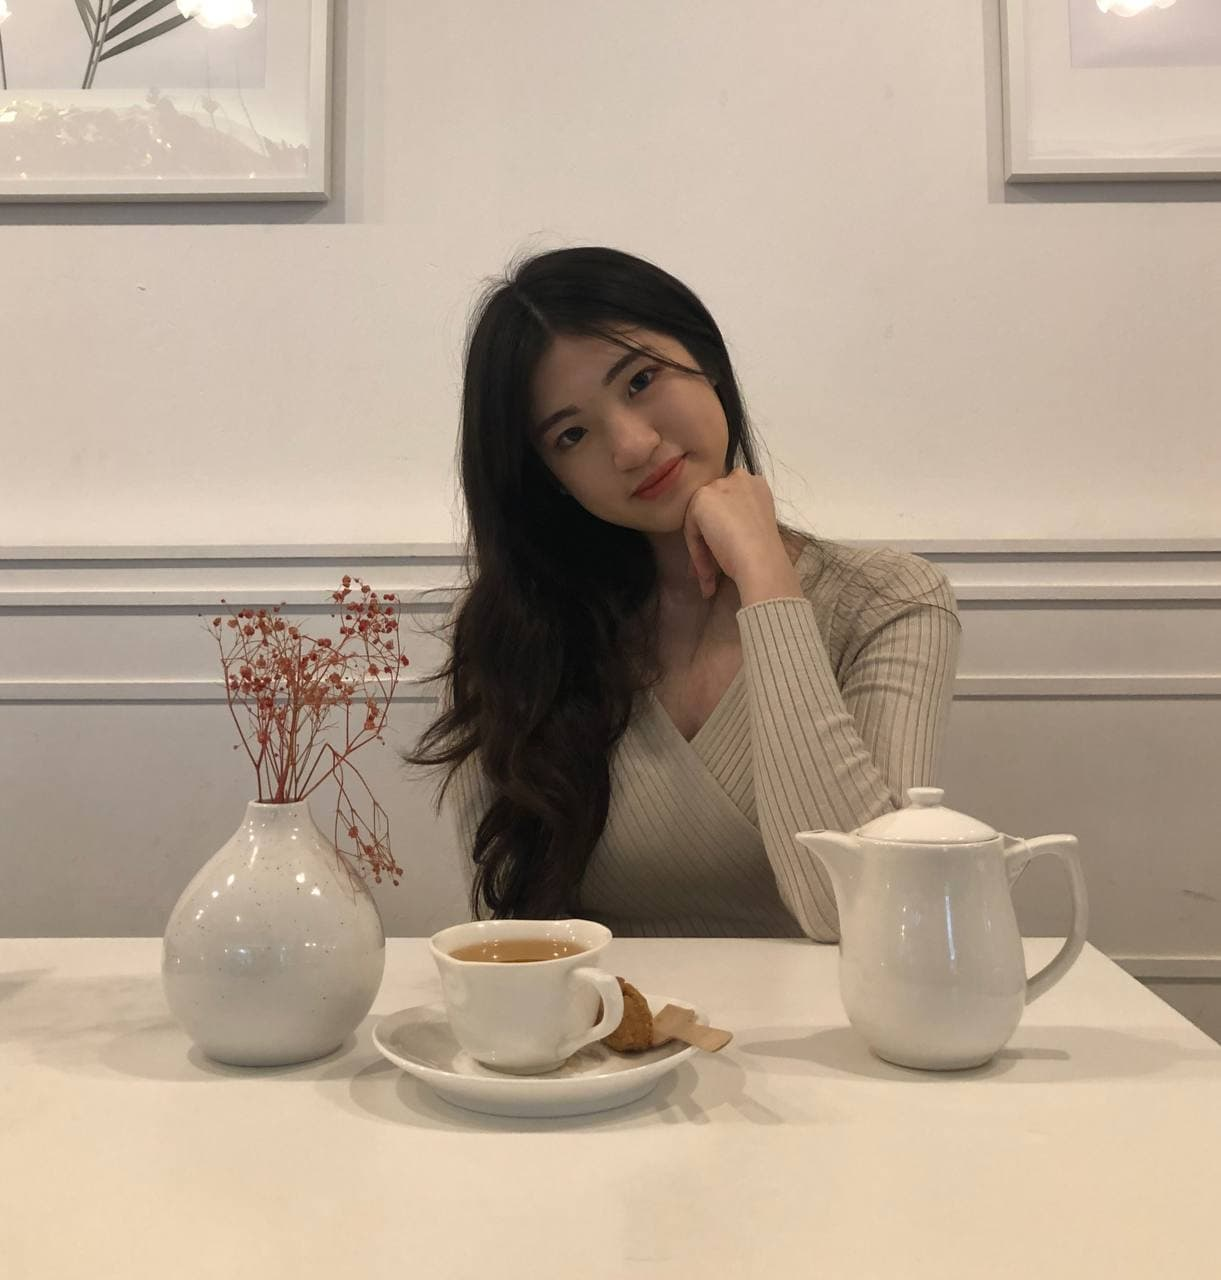
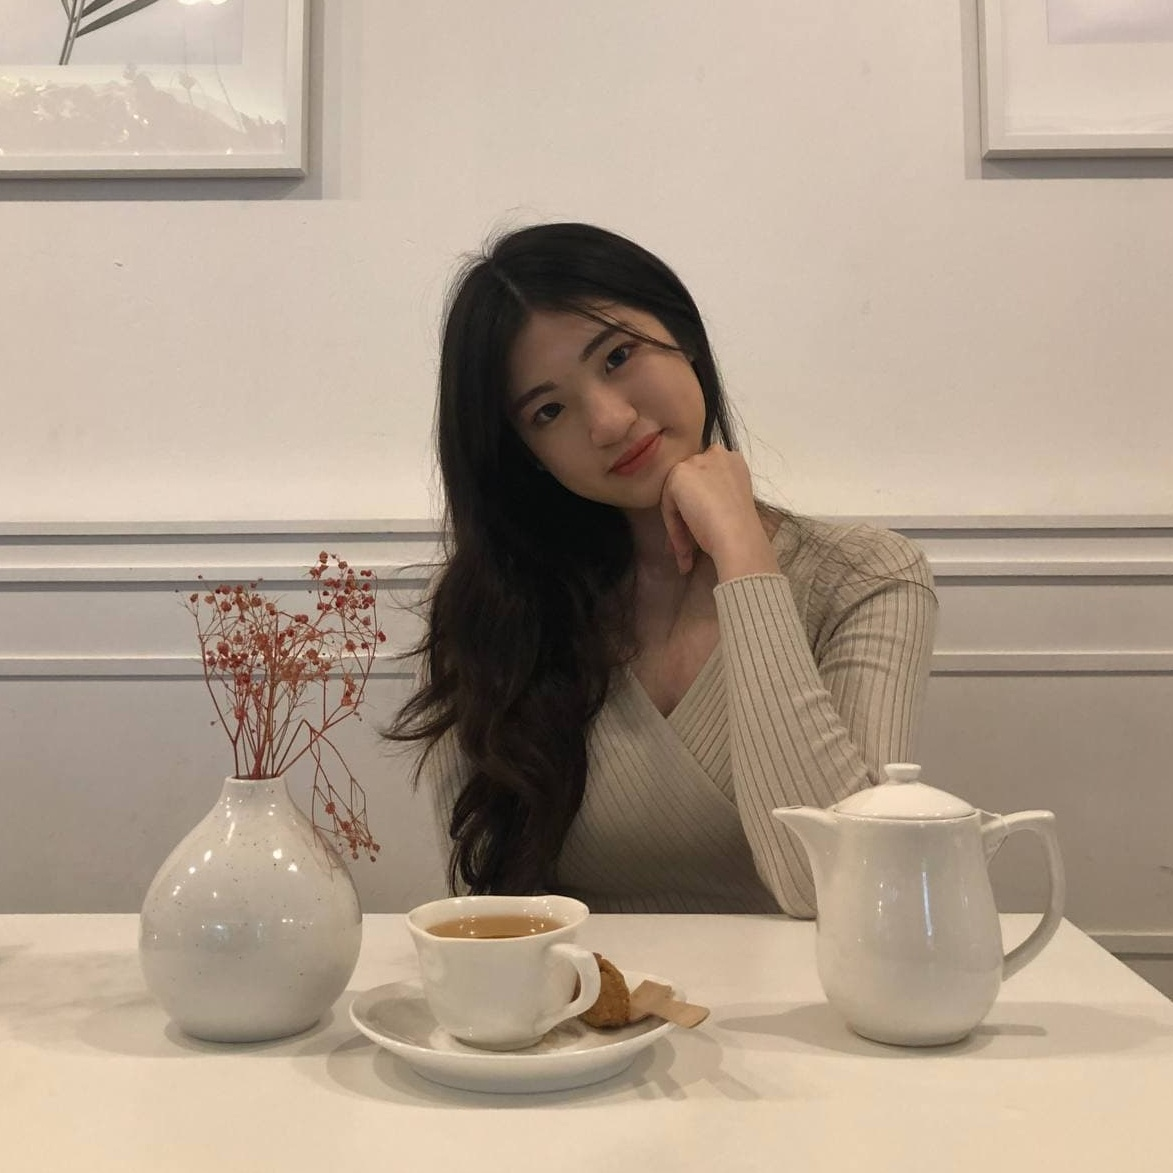
cropped angel's headshot

diff --git a/index.html b/index.html
@@ -414,7 +414,7 @@
               <div class="member-info">
                 <div class="member-info-content">
                   <h4>Joan</h4>
-                  <span>Junior Web Developer, CareerContent Team<br>Philosophy Undergraduate<br>National University of Singapore</span>
+                  <span>Junior Web Developer, CareerContent Team<br>Philosophy Undergraduate, <br> National University of Singapore</span>
                 </div>
               </div>
             </div>
@@ -449,6 +449,36 @@
                 </div>
                 <div class="social">
                   <a href="https://www.linkedin.com/in/tyu-ke-wei-9601b21b4/"><i class="icofont-linkedin"></i></a>
+                </div>
+              </div>
+            </div>
+          </div>
+
+          <div class="col-xl-3 col-lg-4 col-md-6" data-aos="zoom-in" data-aos-delay="100">
+            <div class="member">
+              <img src="assets/img/team/an.jpg" class="img-fluid" alt="deliberately obscuring this">
+              <div class="member-info">
+                <div class="member-info-content">
+                  <h4>Angel</h4>
+                  <span>CareerContent Team</span>
+                </div>
+                <div class="social">
+                  <a href="https://www.linkedin.com/in/angel-l-19b8b9129"><i class="icofont-linkedin"></i></a>
+                </div>
+              </div>
+            </div>
+          </div>
+
+          <div class="col-xl-3 col-lg-4 col-md-6" data-aos="zoom-in" data-aos-delay="100">
+            <div class="member">
+              <img src="assets/img/team/ni.jpg" class="img-fluid" alt="deliberately obscuring this">
+              <div class="member-info">
+                <div class="member-info-content">
+                  <h4>Nicole</h4>
+                  <span>Graphic Designer<br>Political Science Undergraduate, <br> National University of Singapore</span>
+                </div>
+                <div class="social">
+                  <a href="https://www.linkedin.com/in/monicamchan/"><i class="icofont-linkedin"></i></a>
                 </div>
               </div>
             </div>
